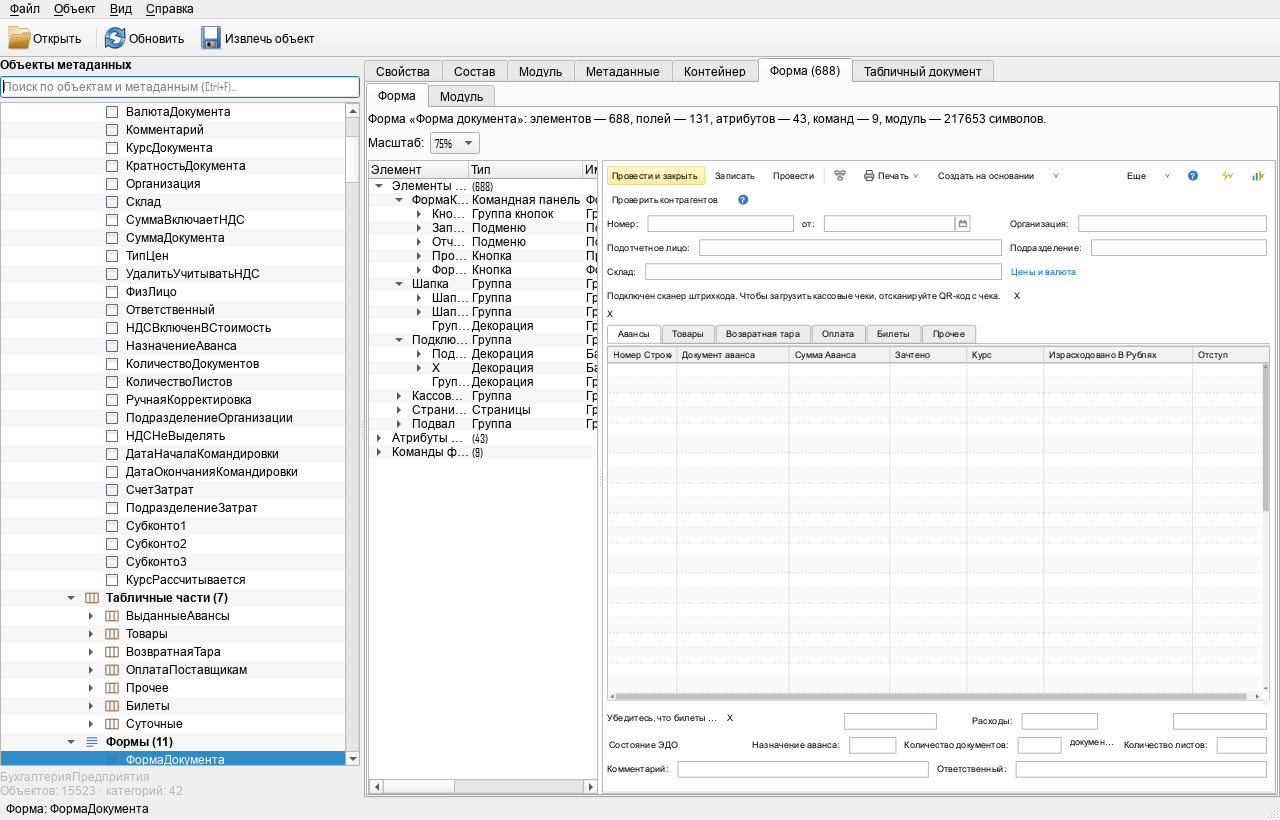
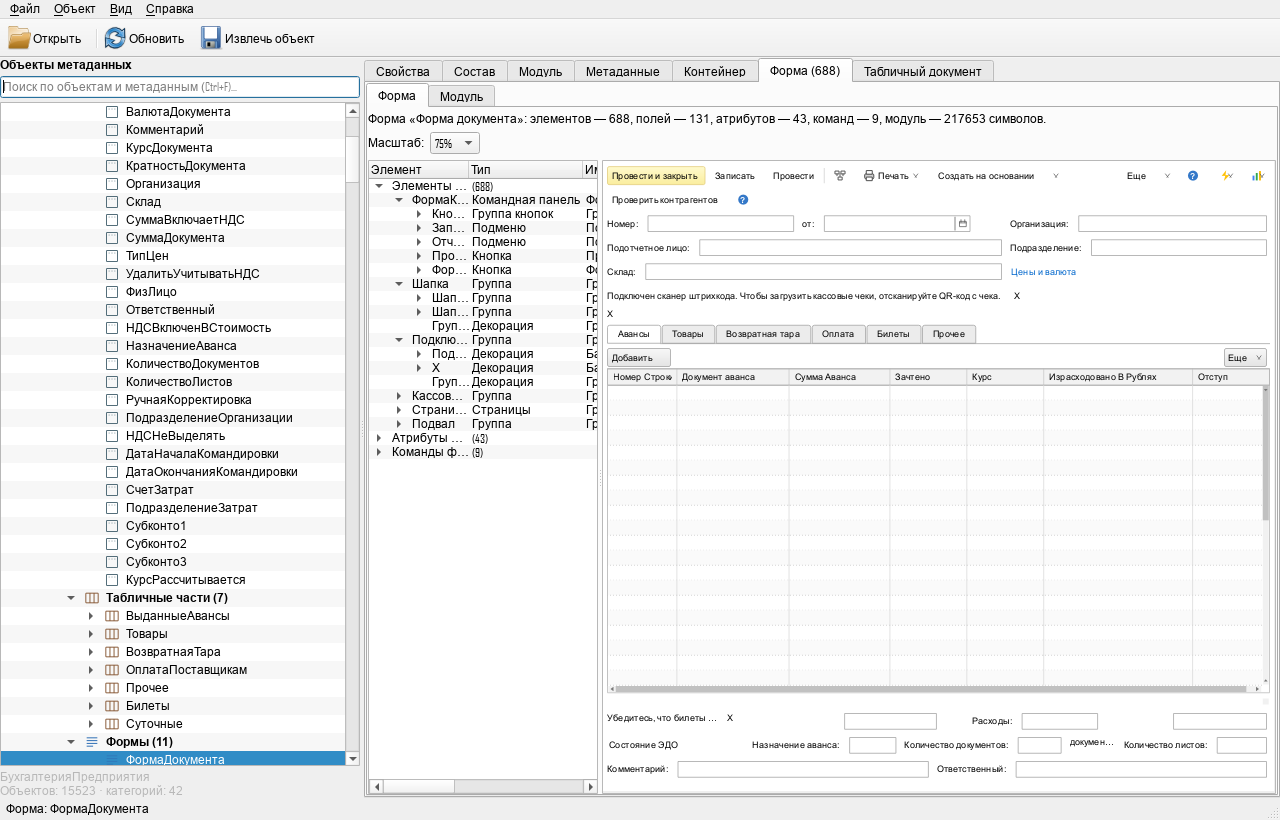
feat(forms): командная панель табличной части документа

Changed region(s): [[0.4688, 0.3963, 1.0, 0.4878], [0.4688, 0.8232, 1.0, 0.8537]]

diff --git a/src/gui/FormView.cpp b/src/gui/FormView.cpp
@@ -89,6 +89,7 @@ struct PreviewControl
     bool primary = false;
     bool labelOnly = false;
     bool calendar = false;
+    bool bordered = false;
 };
 
 bool looksTechnical(const QString &text)
@@ -1054,9 +1055,33 @@ private:
     {
         PreviewControl control;
         control.kind = PreviewControl::Kind::Table;
-        const double tableHeight = m_document.runtimeListCommands ? 470.0 : 360.0;
-        control.rect = QRectF(rect.left(), rect.top(), rect.width(),
-                              std::min(rect.height(), tableHeight));
+        double tableTop = rect.top();
+        double tableHeight = m_document.runtimeListCommands ? 470.0 : 360.0;
+        if (m_document.runtimeDocumentCommands && !m_document.runtimeListCommands) {
+            // Командная панель табличной части документа: «Добавить» и «Еще».
+            PreviewControl add;
+            add.kind = PreviewControl::Kind::Button;
+            add.rect = QRectF(rect.left(), tableTop + 3.0, 84.0,
+                              FormStyle::buttonHeight);
+            add.title = QStringLiteral("Добавить");
+            add.bordered = true;
+            m_controls->append(add);
+
+            PreviewControl more;
+            more.kind = PreviewControl::Kind::Button;
+            more.rect = QRectF(rect.right() - 60.0, tableTop + 3.0, 56.0,
+                               FormStyle::buttonHeight);
+            more.title = QStringLiteral("Еще");
+            more.dropDown = true;
+            more.bordered = true;
+            m_controls->append(more);
+
+            tableTop += 30.0;
+            tableHeight = std::max(80.0, tableHeight - 30.0);
+        }
+        control.rect = QRectF(rect.left(), tableTop, rect.width(),
+                              std::min(std::max(0.0, rect.height() - (tableTop - rect.top())),
+                                       tableHeight));
         QVector<int> widthUnits;
         tableColumns(item, item.name, &control.columns, &widthUnits);
 
@@ -1477,6 +1502,14 @@ void paintControl(QPainter &painter, const PreviewControl &control,
             gradient.setColorAt(0.0, FormStyle::primaryTop);
             gradient.setColorAt(1.0, FormStyle::primaryBottom);
             painter.setPen(FormStyle::primaryBorder);
+            painter.setBrush(gradient);
+            painter.drawRoundedRect(rect, 2.0, 2.0);
+            painter.setBrush(Qt::NoBrush);
+        } else if (control.bordered) {
+            QLinearGradient gradient(rect.topLeft(), rect.bottomLeft());
+            gradient.setColorAt(0.0, QColor(247, 247, 247));
+            gradient.setColorAt(1.0, QColor(228, 228, 228));
+            painter.setPen(FormStyle::fieldBorder);
             painter.setBrush(gradient);
             painter.drawRoundedRect(rect, 2.0, 2.0);
             painter.setBrush(Qt::NoBrush);

diff --git a/docs/research/forms-format.md b/docs/research/forms-format.md
@@ -92,6 +92,8 @@
   индикатор сортировки;
 - таблица забирает свободную высоту окна, а элементы под ней (подвал формы)
   прижимаются к низу; при изменении размера панели макет пересчитывается;
+- над табличной частью формы документа рисуется командная панель
+  «Добавить»/«Еще» с кнопками в рамке, как в 1С;
 - командная панель плоская: у кнопок нет фона и рамки, иконки 16×16;
   кнопка по умолчанию («Создать» в форме списка, «Провести и закрыть»
   в форме документа) заливается жёлтым градиентом; кнопки центрируются

diff --git a/CHANGELOG.md b/CHANGELOG.md
@@ -59,6 +59,8 @@
   состояния.
 - В форме документа колонки подбираются по ширине страницы и помещаются
   без горизонтальной прокрутки, как таблица активной страницы 1С.
+- Над табличной частью формы документа появилась командная панель
+  «Добавить»/«Еще» с рамкой, как в 1С.
 - Поля-надписи (LabelField/PictureField) больше не рисуются полем ввода:
   ссылки вроде «Цены и валюта» показываются синим текстом; поля ввода
   определяются по layout-структуре 32, а не по первому совпадению 10/11.
